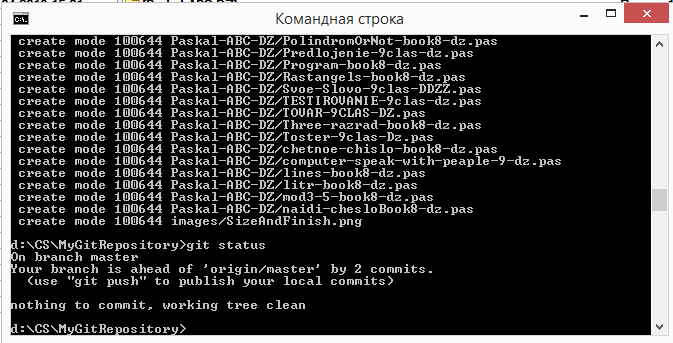
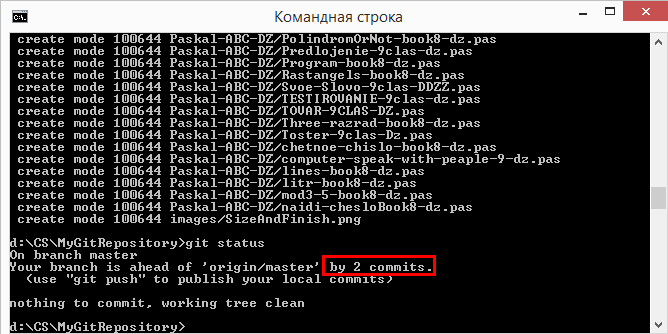
добавление информации по гиту

Changed region(s): [[0.0, 0.0, 1.0, 1.0]]

diff --git a/Slaider/git.html b/Slaider/git.html
@@ -16,12 +16,12 @@
    .body {
 				background-image: url(Computer-white.png);
 				background-repeat: no-repeat;
-				background-position: 90% 37%;		
+				background-position: 90% 10%;		
 			}
 	.body2 {
 				background-image: url(background-for-git.jpg);
 				background-repeat: no-repeat;
-				background-position: 90% 37%;
+				background-position: 90% -5%;
 	}
 		.example {
 		background: #fc0; /* Цвет фона */
@@ -81,14 +81,41 @@
 	</ul>
 	</div>
 	<ul>
-	<li>git init - делает папку доступной для работы из гита</li> 							
-	<li>git status - показывает состояния файлов в рабочей директории и индексе</li>
-	<li>git commit - берёт все данные, добавленные в индекс с помощью git add, и<br>
-	сохраняет их слепок во внутренней базе данных(делает commit).</li>
-	<li>git add - добавляет содержимое рабочей директории в индекс (staging area)<br>
-	для последующего коммита</li>
-	Моя ошибка была в том что я не зашел в папку MyGitRepository. И git push не работал!!!
+		<li>git init - делает папку доступной для работы из гита</li> 							
+		<li>git status - показывает состояния файлов в рабочей директории и индексе</li>
+		<li>git commit - берёт все данные, добавленные в индекс с помощью git add, и<br>
+		сохраняет их слепок во внутренней базе данных(делает commit).</li>
+		<li>git add - добавляет содержимое рабочей директории в индекс (staging area)<br>
+		для последующего коммита</li>
 	</ul>
+	<div class="text">Чтобы закинуть папку на гит нужно</div>
+	<ol>
+		<li>Зайти в нужную папку которая иницилизирована и связана с сервером.</li>
+		<li>Добавить все с помощью git add --all или git add (.).</li>
+		<li>Закомитить с помощью git commit -m "коментарий для коммита".</li>
+		<li>Закинуть на github с помощью команды Git push.</li>
+	</ol>
+	<div class="text">Главные ошибки по которым файл может не попасть на гит</div>
+	<ol>
+		<li>Файл может лежать не в нужной папке. Нужна папка - папка которая иницилизирована и связана с сервером.</li>
+		<li>Прежде чем делать коммит проверте что файлы добавлены (git add) с помощью гит статус</li>
+		<li>Прежде чем писать команду (git push) введите команду (git status), должно быть вот так</li>
+	</ol>
+	<br>
+	<img src="2-push.PNG">
+	<br>
+	Обратите внимание на красное выделение. Запушить можно сразу 2 файла и более.<br>
+	! Важность атомарных коммитов - дописать.
+	- Помимо CLI git существующе GUI: например - Tortoise Git(установлено), или Smart Git.
+	Чтобы пользовоаться ГУИ, обязательно надо понимать логику CLI.
+
+	Моя ошибка была в том что я не зашел в папку MyGitRepository. И git push не работал!!!
+	
+	Тезисы
+	Когда нужно и когда не нужно использовать слайдер.
+	Именование картинок (большие и маленькие буквы) в Windows and Linux.
+	
+	
 	</h3>
 	</div>
 	</div>
